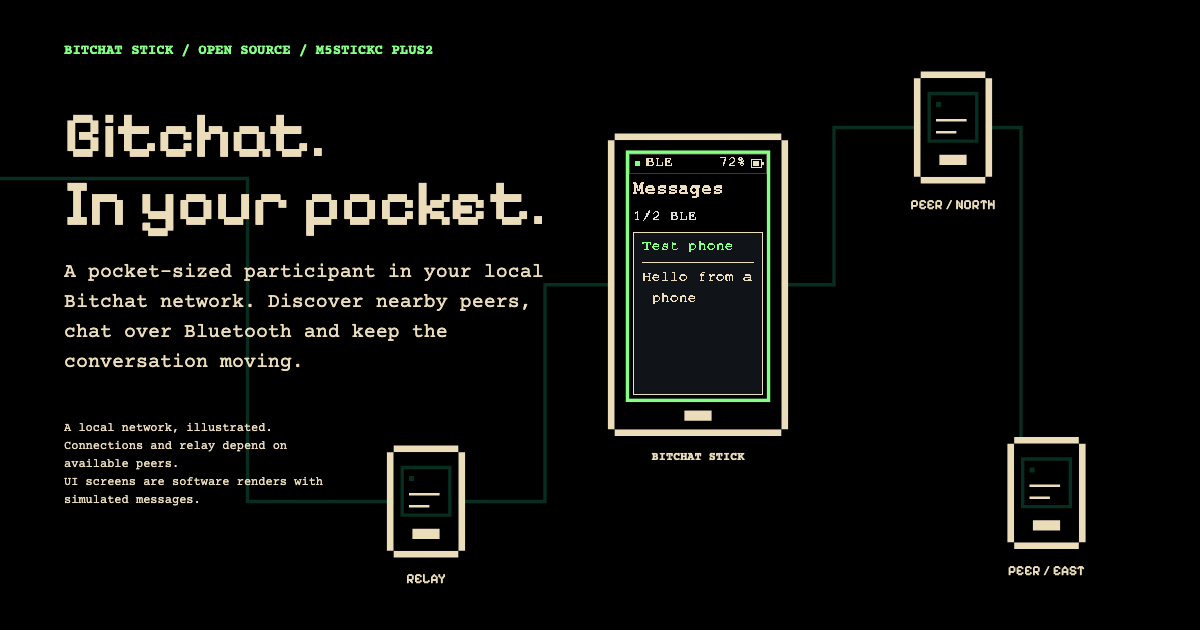
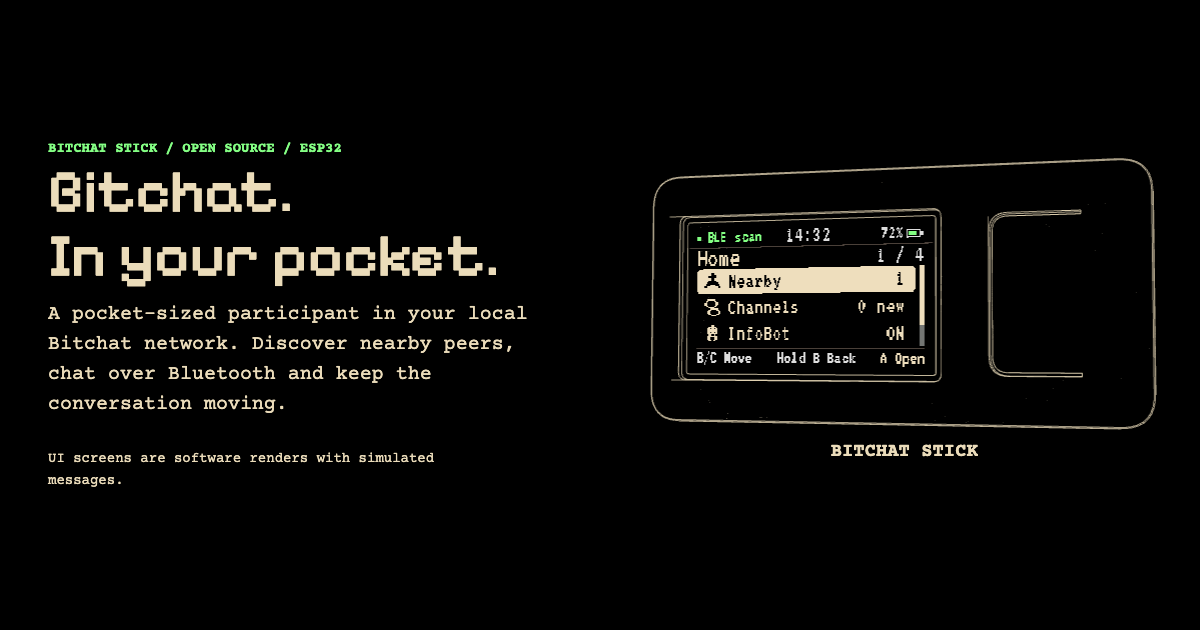
feat: refresh the social card for the updated hero
- Show only the Stick with the Home screen, without the network connections
- Keep the device above the copy so the text background does not clip it

diff --git a/website/src/scripts/hero-device.ts b/website/src/scripts/hero-device.ts
@@ -19,6 +19,9 @@ export async function mountHeroDevice() {
       alpha: true,
       antialias: true,
       powerPreference: 'low-power',
+      // The share-card export screenshots this canvas. The default buffer is cleared
+      // after present, so that capture would miss the device.
+      preserveDrawingBuffer: document.documentElement.dataset.socialCard === 'true',
     });
   } catch {
     hero.dataset.device = 'fallback';

diff --git a/website/README.md b/website/README.md
@@ -130,7 +130,7 @@ The initialization is browser-tested on a mocked production origin, with both Go
 - Keyboard focus, mobile touch targets, a skip link, native disclosures, live control feedback and a site-wide reduced-motion control supplement the OS preference. The hero is decorative to assistive technology; its conceptual/software-render disclosure stays readable.
 - Final browser checks include 320px/375px mobile, 768px tablet, 1440px desktop and long/unbreakable content. Automated axe results do not establish complete WCAG conformance or physical-phone performance.
 
-To regenerate the share image, run the production preview on port 4322, then `npm run render:social`, followed by `npm run build`. The export preserves the conceptual-network and simulated-UI disclosures.
+To regenerate the share image, run the production preview on port 4322, then `npm run render:social`, followed by `npm run build`. The export shows the hero copy beside the device and one software-rendered screen, without the network connections, and keeps the simulated-UI disclosure.
 
 ## Refinement validation — 2026-11-11
 
